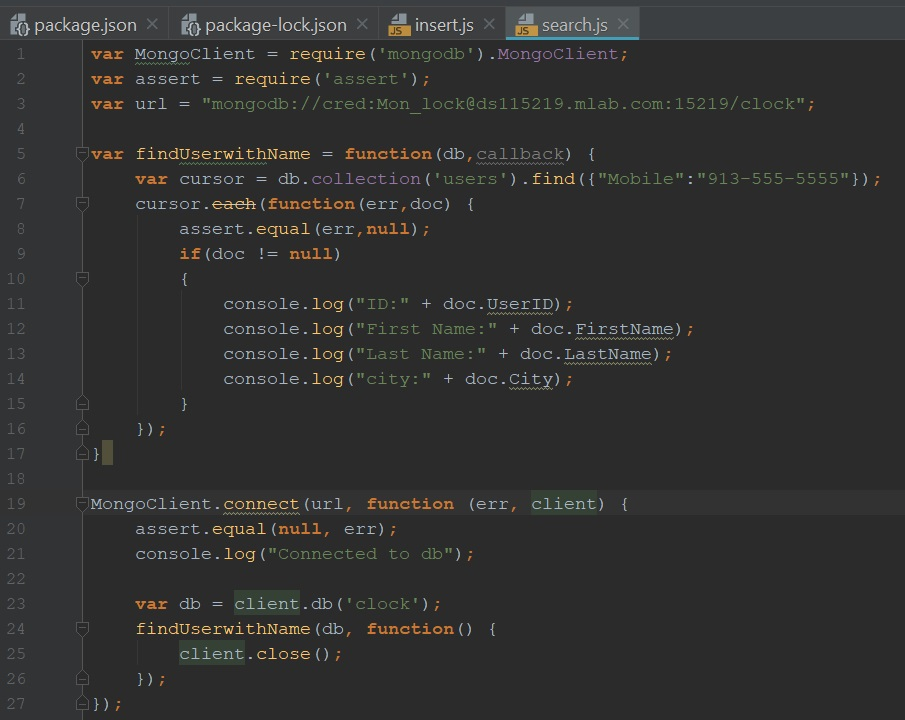
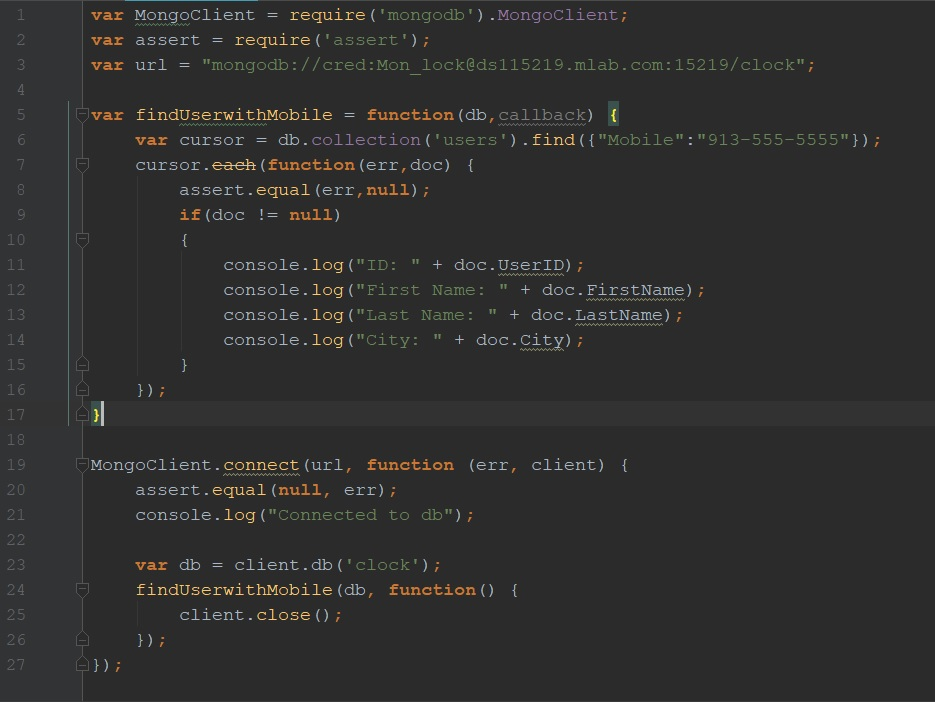
Update

diff --git a/ICP_9/Source/Tutorial9/search.js b/ICP_9/Source/Tutorial9/search.js
@@ -2,16 +2,16 @@ var MongoClient = require('mongodb').MongoClient;
 var assert = require('assert');
 var url = "mongodb://cred:Mon_lock@ds115219.mlab.com:15219/clock";
 
-var findUserwithName = function(db,callback) {
+var findUserwithMobile = function(db,callback) {
     var cursor = db.collection('users').find({"Mobile":"913-555-5555"});
     cursor.each(function(err,doc) {
         assert.equal(err,null);
         if(doc != null)
         {
-            console.log("ID:" + doc.UserID);
-            console.log("First Name:" + doc.FirstName);
-            console.log("Last Name:" + doc.LastName);
-            console.log("City:" + doc.City);
+            console.log("ID: " + doc.UserID);
+            console.log("First Name: " + doc.FirstName);
+            console.log("Last Name: " + doc.LastName);
+            console.log("City: " + doc.City);
         }
     });
 }
@@ -21,7 +21,7 @@ MongoClient.connect(url, function (err, client) {
     console.log("Connected to db");
 
     var db = client.db('clock');
-    findUserwithName(db, function() {
+    findUserwithMobile(db, function() {
         client.close();
     });
 });
